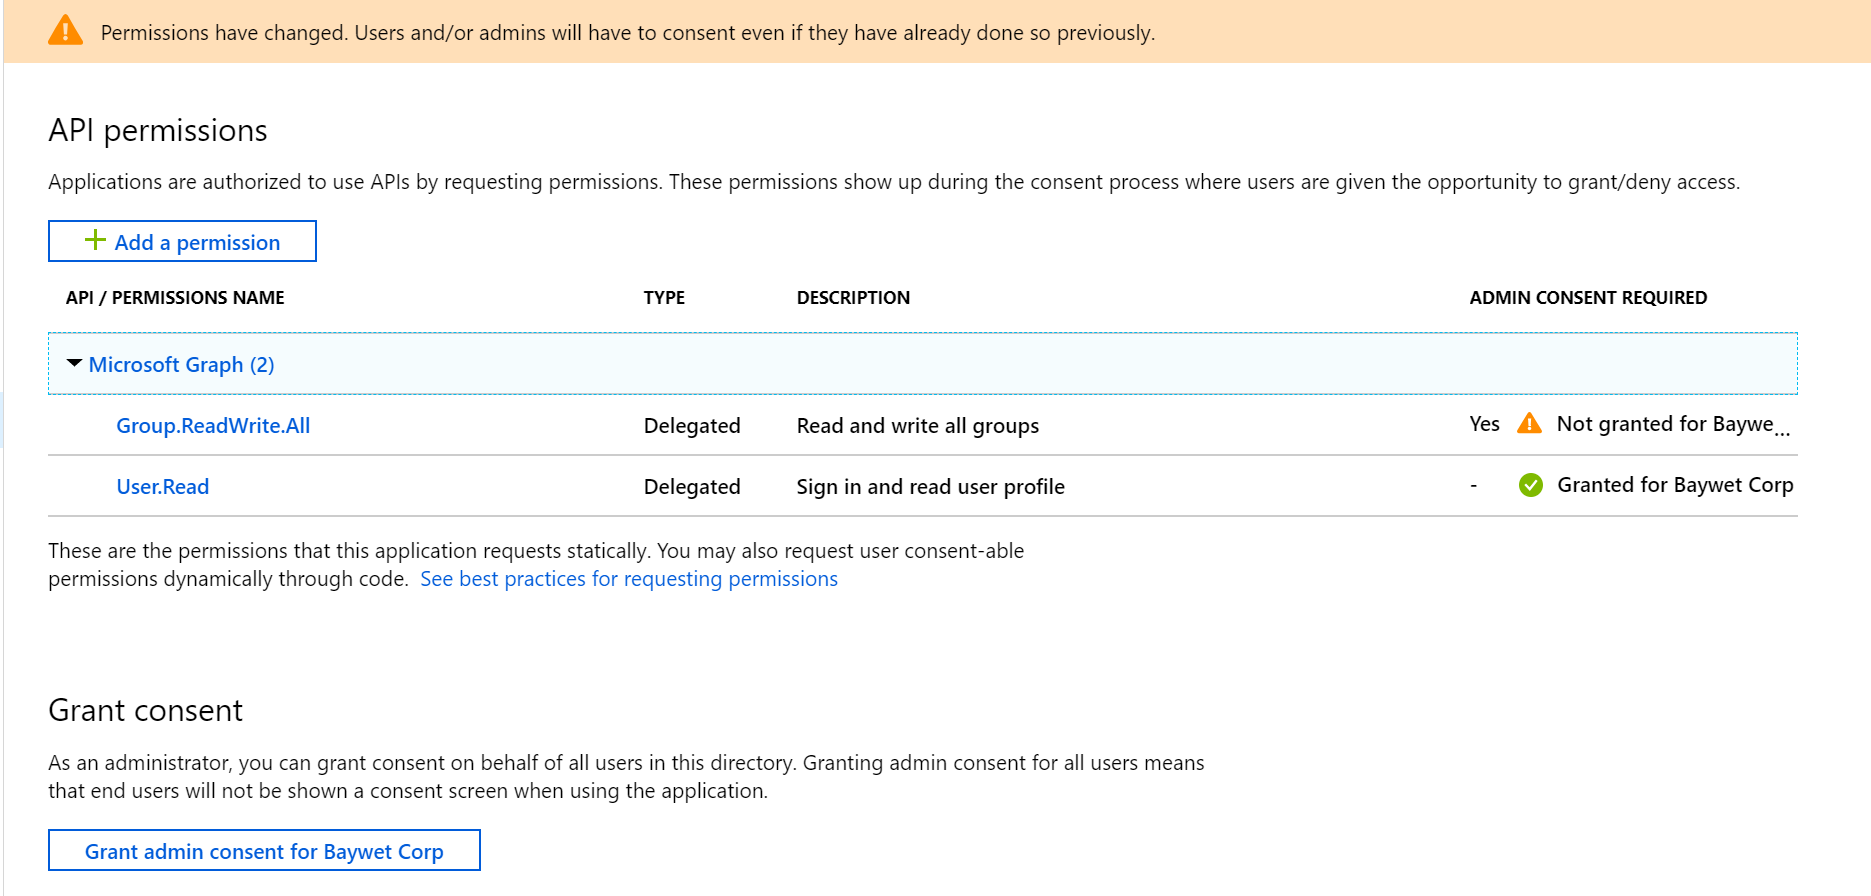
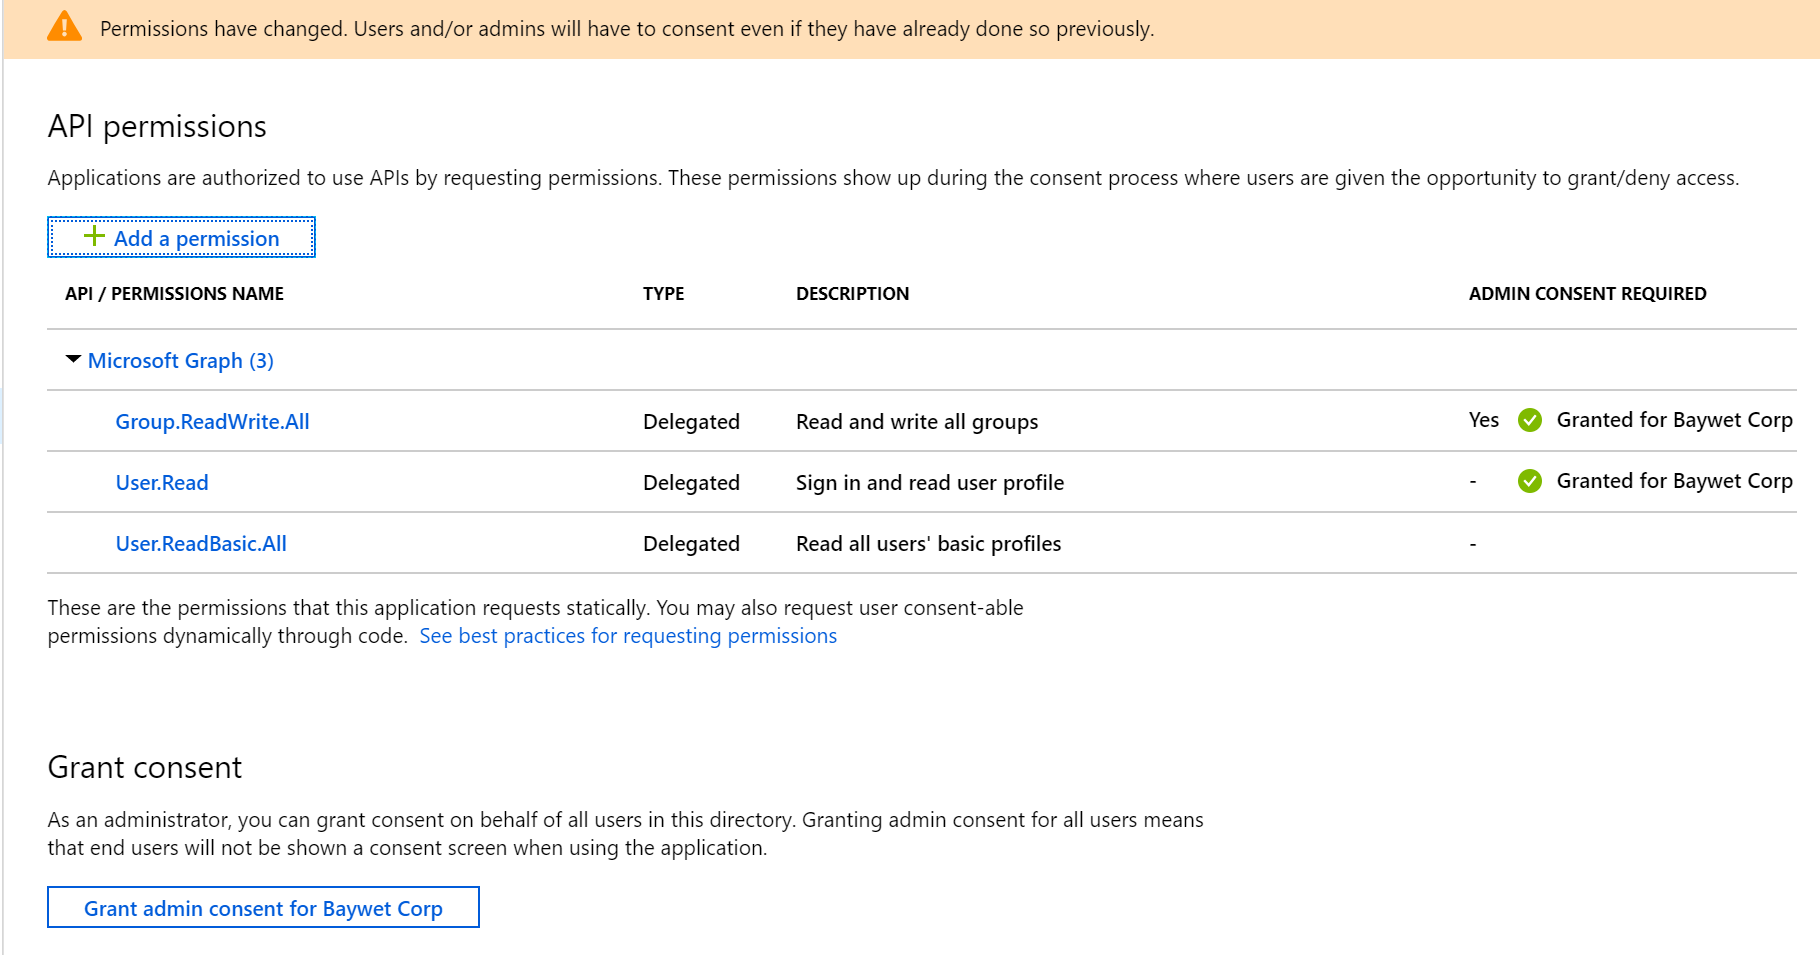
planner: added userbasicread all permissions at requsested

diff --git a/day23-planner/README.md b/day23-planner/README.md
@@ -53,7 +53,10 @@ As this exercise requires new permissions the App Registration needs to be updat
     1. In the "Select permissions" search box type "\<Start of permission string\>".
     1. Select **Group.ReadWrite.All** from the filtered list.
 
-        ![Screenshot of adding Delegated permission for Group.ReadWrite.All permission](Images/aad-add-planner-permissions.png)
+        ![Screenshot of adding Delegated permission for Group.ReadWrite.All](Images/aad-add-planner-permissions.png)
+
+    1. Selection **User.ReadBasic.All** from the filtered list.
+        ![Screenshort of addinf delegated permission for User.ReadBasic.All](Images/aad-add-planner-permissions-2.png)
 
     1. Click **Add permissions** at the bottom of flyout.
 
